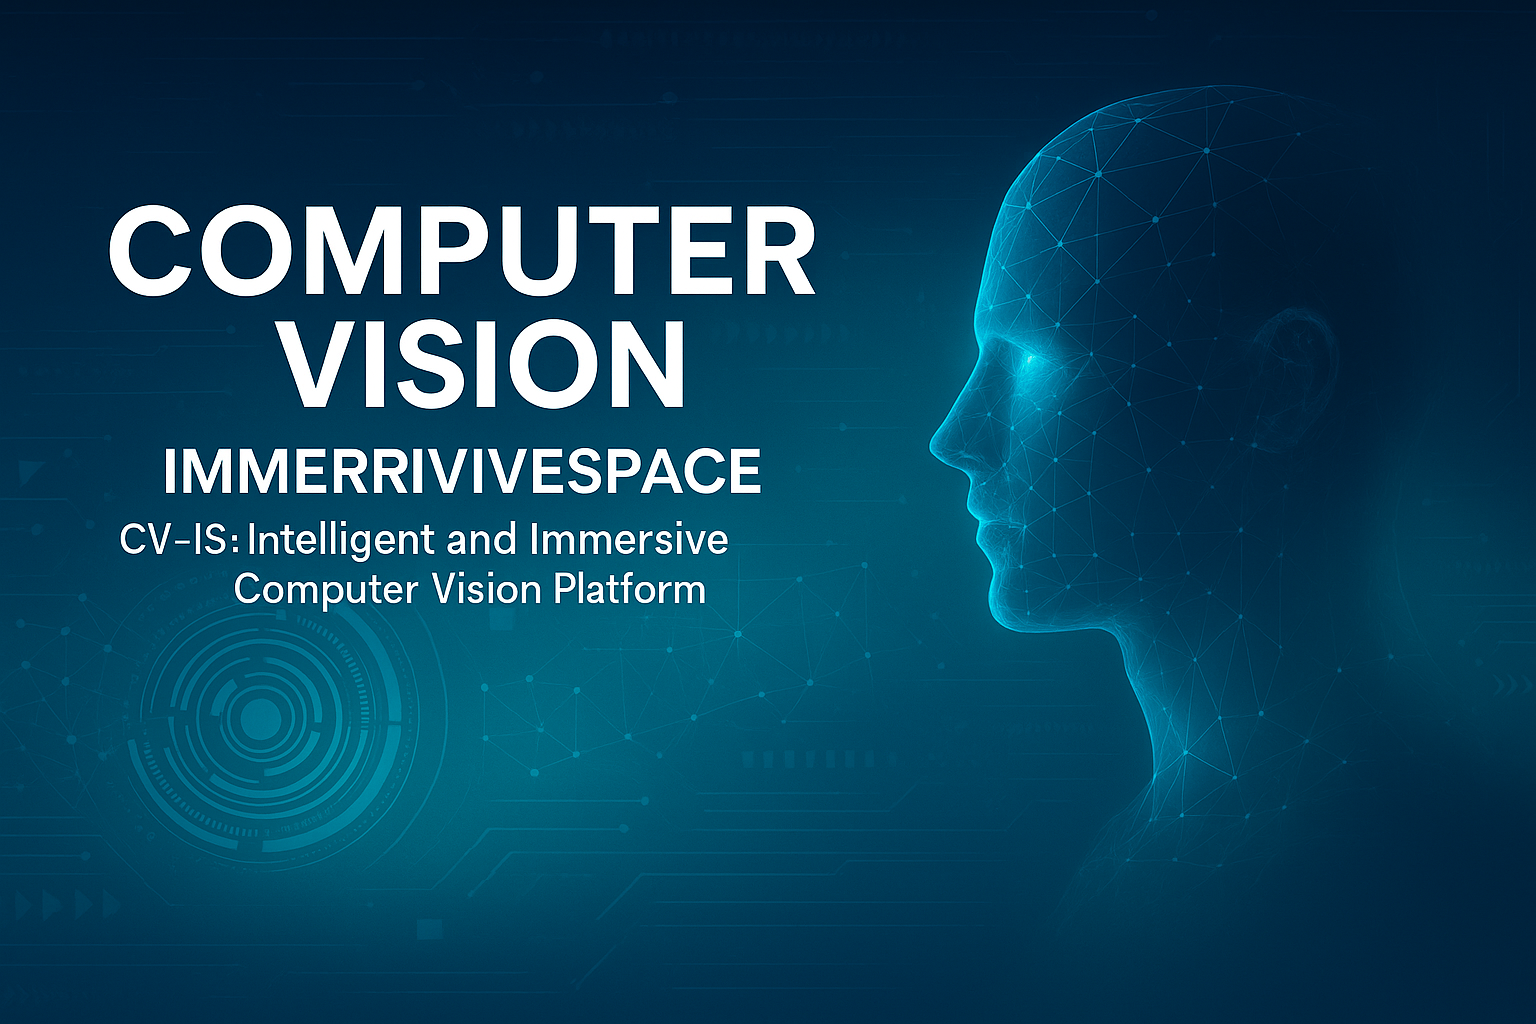
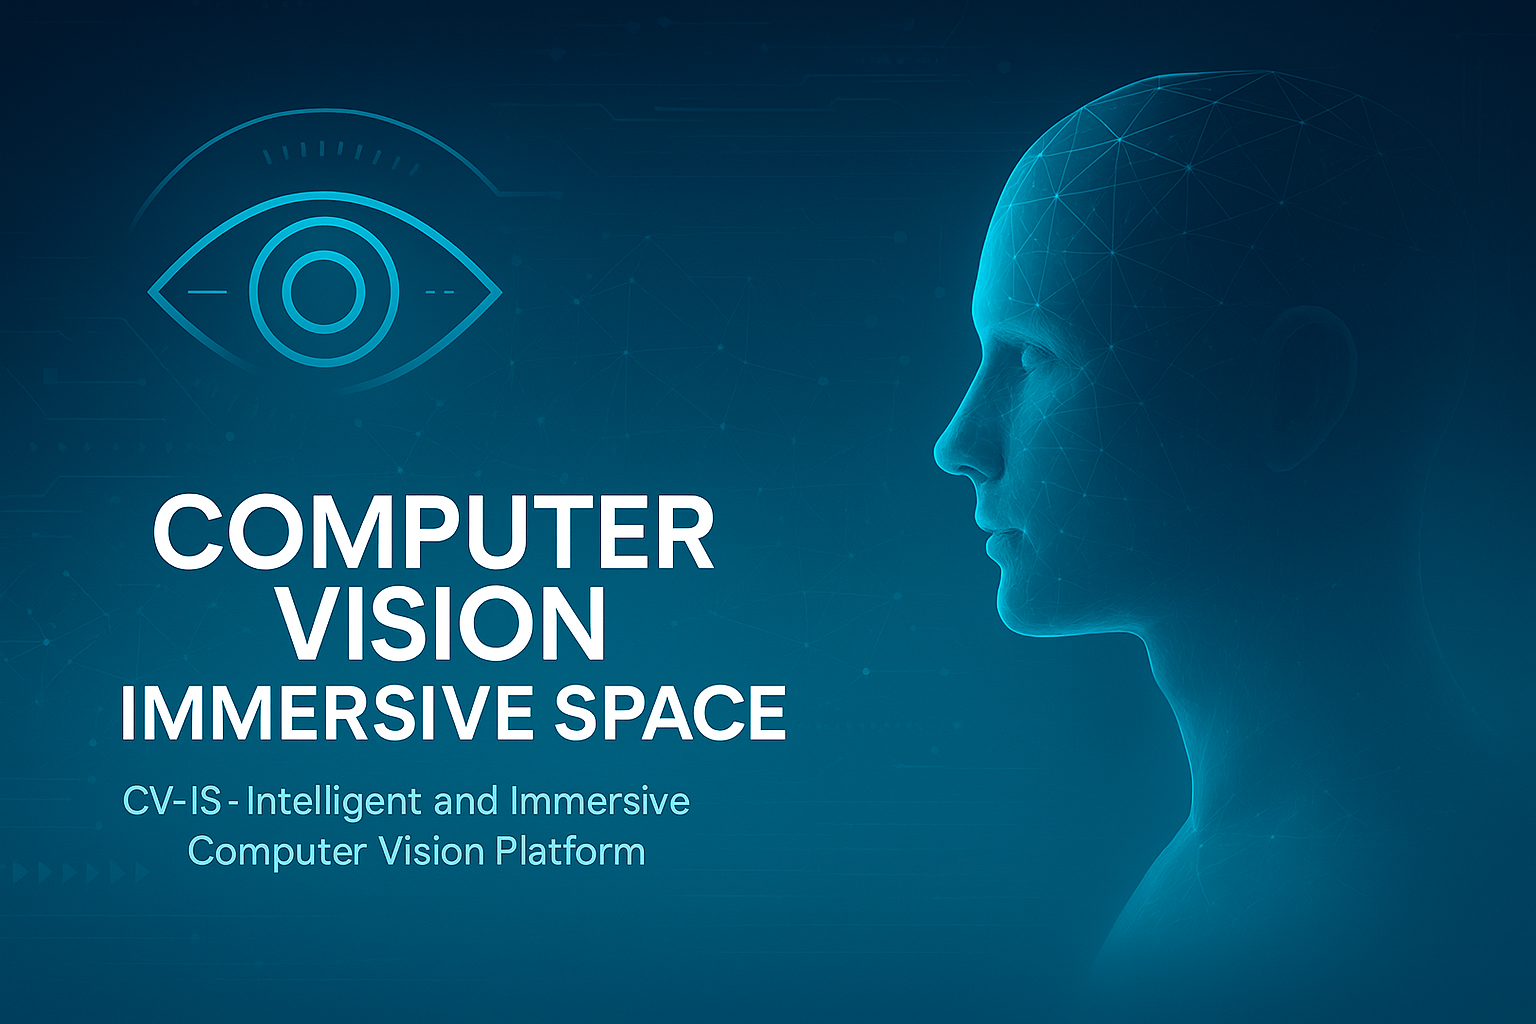
Add files via upload

diff --git a/style.css b/style.css
@@ -2,165 +2,102 @@
 html, body {
     margin: 0;
     padding: 0;
-    height: 100%;
-}
-
-body {
-    font-family: Arial, Helvetica, sans-serif;
     background: #0b0c10;
     color: #f2f2f2;
+    font-family: Arial, Helvetica, sans-serif;
 }
 
-/* Banner no topo – largura total, pouca altura */
-.hero-top {
-    width: 100%;
-    background: #020612;
-}
-
+/* Banner no topo – imagem agora não é cortada */
 .hero-top img {
     width: 100%;
-    max-height: 220px;      /* controla a altura: deixa a imagem mais “horizontal” */
-    object-fit: cover;      /* preenche na largura, recorta um pouco na vertical se precisar */
+    height: auto;
+    max-height: 280px;    /* mantém a imagem horizontal */
+    object-fit: cover;
     display: block;
 }
 
-/* Conteúdo central */
+/* Conteúdo */
 .container {
     max-width: 900px;
-    padding: 20px 24px 32px;
+    padding: 22px 24px;
     margin: 0 auto;
 }
 
-/* Texto descritivo */
+/* Descrição */
 .description {
-    font-size: 1rem;
+    font-size: 1rem;          /* tamanho normal */
     line-height: 1.55;
-    margin-bottom: 1.0rem;
+    margin-bottom: 1rem;
     color: #cfd8dc;
 }
 
-#short-desc {
-    margin-bottom: 0.4rem;
-}
-
-/* Link “Know more...” */
 .more-link {
-    display: inline-block;
-    margin-top: 0;
-    margin-bottom: 0.8rem;
     color: #64b5f6;
     cursor: pointer;
     font-size: 0.95rem;
-}
-
-.more-link:hover {
-    text-decoration: underline;
 }
 
 .hidden {
     display: none;
 }
 
-/* Blocos principais */
+/* Blocos */
 .block {
-    margin-top: 1.2rem;
-    margin-bottom: 1.2rem;
-    padding: 14px 18px 20px;
+    background: rgba(255,255,255,0.03);
+    border: 1px solid rgba(144,164,174,0.4);
     border-radius: 16px;
-    background: rgba(255, 255, 255, 0.02);
-    border: 1px solid rgba(144, 164, 174, 0.4);
+    padding: 18px 20px;
+    margin-bottom: 20px;
 }
 
 .block-title {
-    margin-top: 0;
-    margin-bottom: 1rem;
-    font-size: 1.05rem;
     text-transform: uppercase;
-    letter-spacing: 0.12em;
     color: #b0bec5;
+    letter-spacing: 0.12em;
+    margin-bottom: 16px;
 }
 
-/* Card do módulo disponível */
-.modules {
-    display: flex;
-    justify-content: center;
-}
-
+/* Module card */
+.modules { display: flex; justify-content: center; }
 .module-card {
+    text-decoration: none;
+    border-radius: 16px;
+    padding: 12px;
+    background: rgba(255,255,255,0.04);
+    border: 1px solid #64b5f6;
+    transition: 0.2s;
     display: inline-flex;
     flex-direction: column;
     align-items: center;
-    text-decoration: none;
-    border-radius: 16px;
-    padding: 10px 14px 14px;
-    background: rgba(255, 255, 255, 0.03);
-    border: 1px solid #64b5f6;
-    transition: transform 0.15s ease, box-shadow 0.15s ease, background 0.15s ease;
 }
-
+.module-card:hover {
+    background: rgba(100,181,246,0.1);
+    transform: translateY(-2px);
+}
 .module-card img {
-    width: 190px;
-    height: 190px;
-    display: block;
+    width: 170px;
+    height: 170px;
     margin-bottom: 8px;
 }
 
-.module-name {
-    font-size: 0.98rem;
-    color: #e3f2fd;
-    font-weight: 600;
-}
-
-.module-tagline {
-    font-size: 0.8rem;
-    color: #b0bec5;
-    margin-top: 2px;
-}
-
-.module-card:hover {
-    background: rgba(100, 181, 246, 0.08);
-    box-shadow: 0 6px 18px rgba(0, 0, 0, 0.35);
-    transform: translateY(-2px);
-}
-
-/* Lista Coming Soon */
-.link-list {
-    list-style: none;
-    padding: 0;
-    margin: 0;
-}
-
-.link-list li {
-    margin: 0.4rem 0;
-}
-
-.link-list a {
-    text-decoration: none;
-    padding: 6px 10px;
-    border-radius: 999px;
-    border: 1px solid #455a64;
-    color: #cfd8dc;
-    font-size: 0.9rem;
-    display: inline-block;
-}
-
+/* Coming Soon */
 .disabled-link {
+    opacity: 0.45;
     pointer-events: none;
-    opacity: 0.5;
 }
 
-/* Responsivo */
+/* RESPONSIVO — restaura tamanho normal no celular */
 @media (max-width: 768px) {
-    .container {
-        padding: 16px;
+    .description {
+        font-size: 1rem;   /* voltou ao tamanho original */
     }
 
     .module-card img {
-        width: 160px;
-        height: 160px;
+        width: 150px;
+        height: 150px;
     }
 
     .hero-top img {
-        max-height: 190px;  /* um pouco menor em telas pequenas */
+        max-height: 220px; /* imagem ainda mais horizontal no mobile */
     }
 }

diff --git a/index.html b/index.html
@@ -2,20 +2,20 @@
 <html lang="en">
 <head>
     <meta charset="UTF-8">
-    <title>Computer Vision ImmerviveSpace (CV-IS)</title>
+    <title>Computer Vision Immersive Space</title>
     <meta name="viewport" content="width=device-width, initial-scale=1.0">
-    <meta name="description" content="Advanced online platform for computer vision applications, offering real-time perception, intelligent scene analysis, and interactive tools designed for healthcare, environment, education, industry, commerce, AR/VR/MR, sports, entertainment, and more.">
     <link rel="stylesheet" href="style.css">
 </head>
 <body>
 
-    <!-- Banner principal no topo (contém título e subtítulo dentro da própria imagem) -->
+    <!-- Banner principal no topo -->
     <div class="hero-top">
-        <img src="cv-is-banner.png" alt="Computer Vision ImmerviveSpace banner">
+        <img src="cv-is-banner.png" alt="Computer Vision Immersive Space Banner">
     </div>
 
     <div class="container">
-        <!-- Descrição curta + Know more -->
+
+        <!-- Descrição reduzida -->
         <p class="description" id="short-desc">
             CV-IS is an online platform offering intelligent, real-time computer vision tools
             for multiple fields including healthcare, sports, education, and immersive technologies.
@@ -31,46 +31,39 @@
             intelligent scene understanding.
         </p>
 
-        <!-- BLOCO 1 – Available Modules -->
+        <!-- Available Modules -->
         <section class="block">
             <h2 class="block-title">Available Modules</h2>
             <div class="modules">
-                <a class="module-card"
-                   href="https://paulosergioimmersivescience.github.io/Personal-AI/"
-                   target="_blank" rel="noopener noreferrer">
-                    <img src="pta-v01.svg" alt="Personal Trainer Agent V-01 logo">
+                <a class="module-card" href="https://paulosergioimmersivescience.github.io/Personal-AI/" target="_blank">
+                    <img src="pta-v01.svg" alt="Personal Trainer Agent V-01">
                     <div class="module-name">Personal Trainer Agent V-01</div>
                     <div class="module-tagline">AI-assisted motion and exercise capture</div>
                 </a>
             </div>
         </section>
 
-        <!-- BLOCO 2 – Coming Soon -->
+        <!-- Coming Soon -->
         <section class="block">
             <h2 class="block-title">Coming Soon</h2>
             <ul class="link-list">
-                <li><a href="#" class="disabled-link">Surgical Action Analyzer</a></li>
-                <li><a href="#" class="disabled-link">Industrial Safety Monitor</a></li>
-                <li><a href="#" class="disabled-link">Environmental Scene Classifier</a></li>
-                <li><a href="#" class="disabled-link">Educational Interactive Vision Suite</a></li>
-                <li><a href="#" class="disabled-link">Sports Motion Analyzer</a></li>
-                <li><a href="#" class="disabled-link">Immersive AR/VR Vision Toolkit</a></li>
+                <li><a class="disabled-link">Surgical Action Analyzer</a></li>
+                <li><a class="disabled-link">Industrial Safety Monitor</a></li>
+                <li><a class="disabled-link">Environmental Scene Classifier</a></li>
+                <li><a class="disabled-link">Educational Interactive Vision Suite</a></li>
+                <li><a class="disabled-link">Sports Motion Analyzer</a></li>
+                <li><a class="disabled-link">Immersive AR/VR Vision Toolkit</a></li>
             </ul>
         </section>
     </div>
 
     <script>
-        // Expande / contrai descrição
         document.getElementById("more-link").addEventListener("click", function () {
             const full = document.getElementById("full-desc");
             full.classList.toggle("hidden");
-
-            if (full.classList.contains("hidden")) {
-                this.textContent = "Know more...";
-            } else {
-                this.textContent = "Show less";
-            }
+            this.textContent = full.classList.contains("hidden") ? "Know more..." : "Show less";
         });
     </script>
+
 </body>
 </html>
